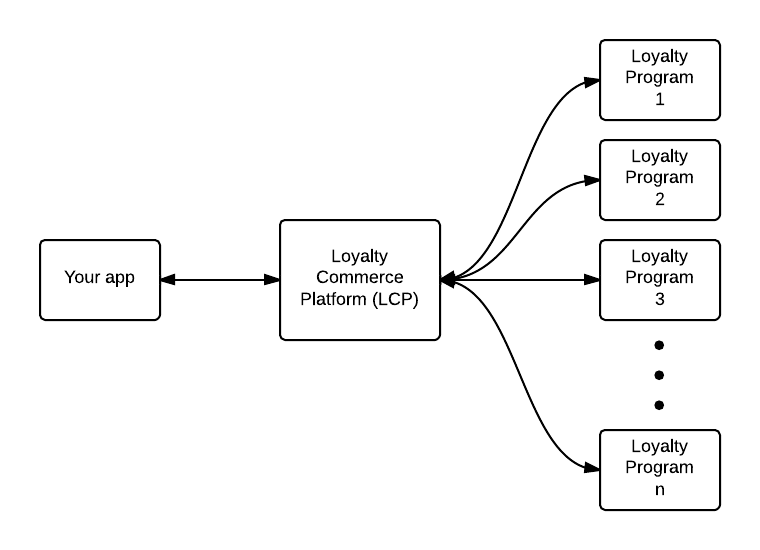
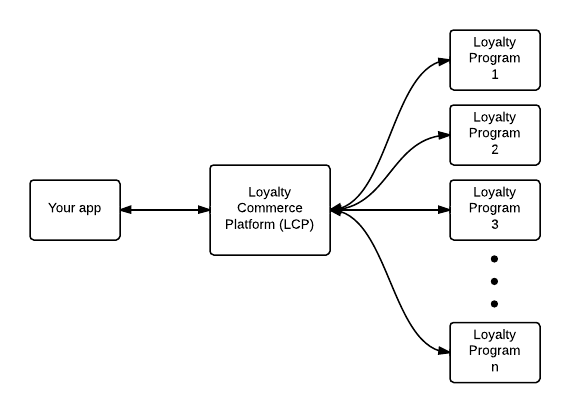
Fixed image

diff --git a/documentation/app/static/documents/getting-started.md b/documentation/app/static/documents/getting-started.md
@@ -75,7 +75,7 @@ many loyalty programs. The LCP handles the complexity of working with each
 loyalty program, creating one simple interface for working with any number of
 programs.
 
-![Getting Started](static/images/getting-started.jpg)
+![Getting Started](static/images/getting-started.png)
 
 ### Sandbox vs. Live Mode
 
@@ -673,6 +673,10 @@ your own module to sign requests.
         mac_key += '=' * (4 - len(mac_key) % 4)    mac_key = base64.urlsafe_b64decode(mac_key)    ## Step 6: Generate the signature    signature = hmac.new(mac_key, normalized_request_string, hashlib.sha1)    ## Step 7: Base64 encode the result    mac = base64.b64encode(signature.digest())
         ## Step 8: Build Authorization header
         return 'MAC id="{0}", ts="{1}", nonce="{2}", ext="{3}", mac="{4}"'.format(mac_key_identifier, ts, nonce, ext, mac)
+
+
+
+
 
 
 
